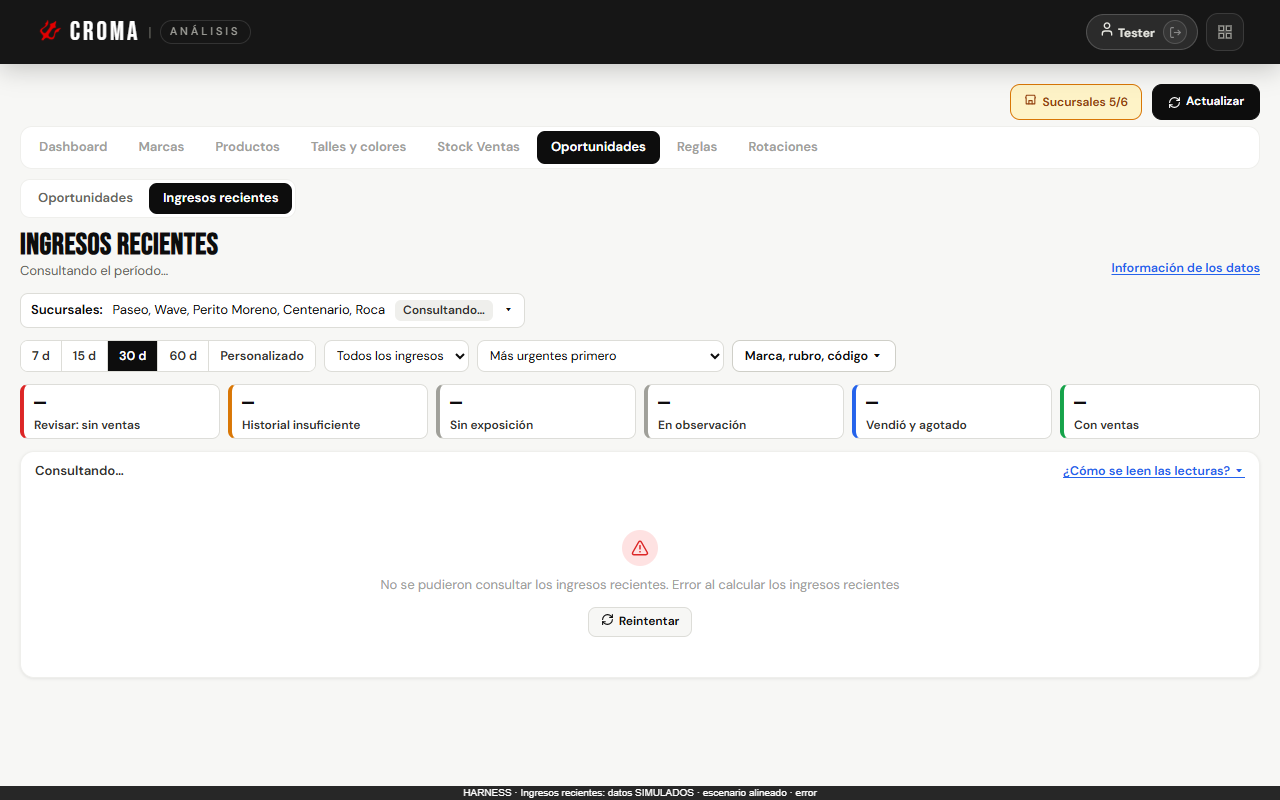
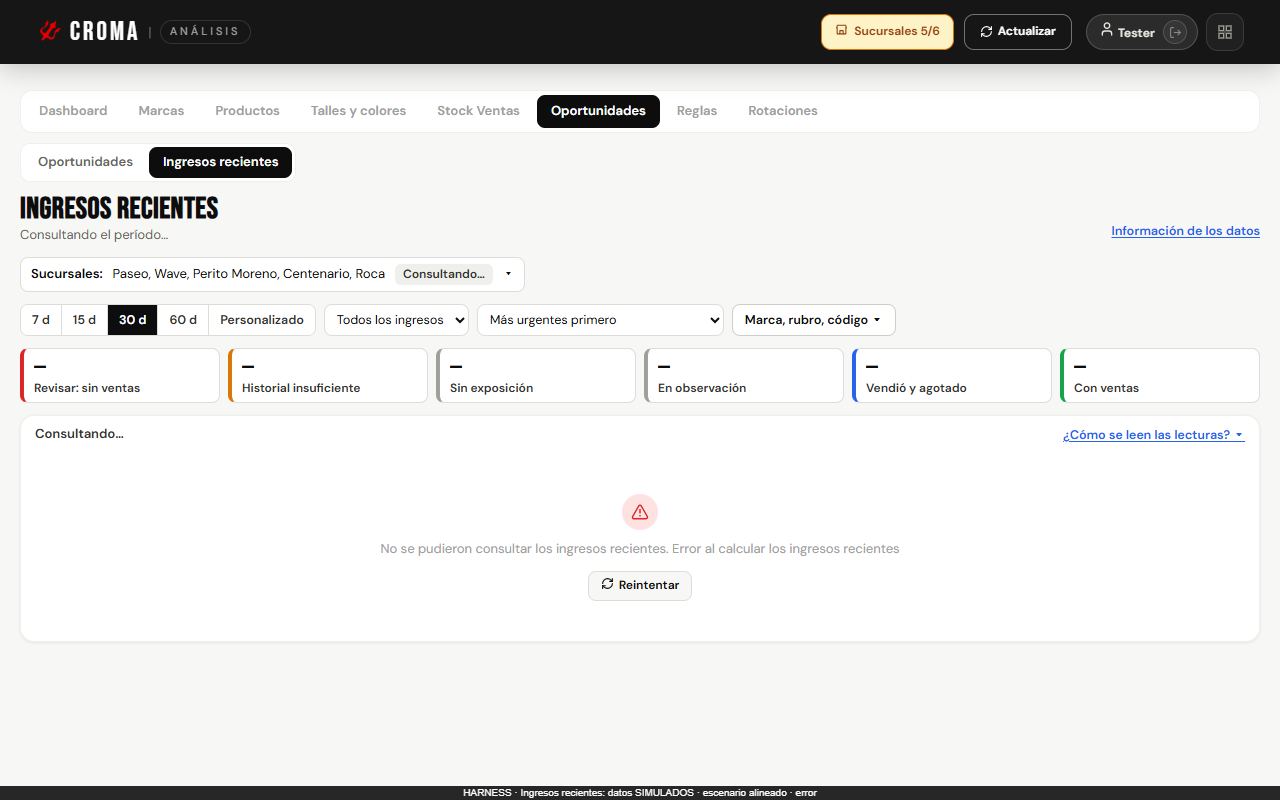
feat(analisis): acciones en la barra superior y dias del rango personalizado
En escritorio, "Sucursales", "Actualizar" y la hora de actualizacion pasan a
la barra superior mientras esta activa Ingresos recientes (en movil quedan
donde estaban). En el rango personalizado se muestra al lado de las fechas
la cantidad de dias consultados, con aviso si supera el maximo.

diff --git a/tests/harness/validacion-ingresos-recientes.js b/tests/harness/validacion-ingresos-recientes.js
@@ -53,6 +53,16 @@ const check = (nombre, ok, detalle) => { resultados.push({ nombre, ok: !!ok, det
     check(T('barra superior compacta: sin tarjeta vacía y altura mínima'), cabeceras.barra.h <= (movil ? 48 : 44) && /rgba\(0, 0, 0, 0\)|transparent/.test(cabeceras.fondo) && cabeceras.borde === '0px', JSON.stringify(cabeceras.barra));
     check(T('altura acumulada hasta las subpestañas'), cabeceras.subnav.bottom <= (movil ? 290 : 235), 'subpestañas terminan en ' + cabeceras.subnav.bottom + ' px');
     if (movil) check(T('controles de la barra cómodos de tocar (≥ 40 px)'), cabeceras.boton.h >= 40, 'alto ' + cabeceras.boton.h);
+    // acciones en la barra superior (escritorio) o en su lugar de siempre (movil)
+    const acc = await page.evaluate(() => { const top = document.querySelector('header.topbar'); const g = id => document.getElementById(id); const r = e => { const b = e.getBoundingClientRect(); return { l: Math.round(b.left), r: Math.round(b.right), t: Math.round(b.top), b: Math.round(b.bottom) }; }; return { suc: !!top.querySelector('#rtBtnSucursales'), act: !!top.querySelector('#rtBtnActualizar'), hdr: Math.round(top.getBoundingClientRect().height), sucR: r(g('rtBtnSucursales')), actR: r(g('rtBtnActualizar')), barra: getComputedStyle(g('rtBar')).display, sub: Math.round(document.querySelector('.ov-subnav').getBoundingClientRect().top) }; });
+    if (!movil) {
+      check(T('escritorio: «Sucursales» y «Actualizar» están en la barra superior y la fila de acciones desaparece'), acc.suc && acc.act && acc.barra === 'none' && acc.sucR.b <= acc.hdr && acc.actR.b <= acc.hdr, JSON.stringify(acc));
+      await page.locator('#rtBtnSucursales').click(); await page.waitForTimeout(300);
+      const pn = await page.evaluate(() => { const b = document.getElementById('rtSucursalesPanel').getBoundingClientRect(); return { l: Math.round(b.left), r: Math.round(b.right), t: Math.round(b.top), vw: innerWidth, visible: document.elementFromPoint(b.left + 20, b.top + 20)?.closest('#rtSucursalesPanel') !== null }; });
+      check(T('panel de sucursales desde la barra superior: dentro de la pantalla y por encima del contenido'), pn.l >= 0 && pn.r <= pn.vw && pn.visible, JSON.stringify(pn));
+      await foto(page, 'alineado-07-acciones-en-barra-superior');
+      await page.keyboard.press('Escape'); await page.locator('#rtBtnSucursales').click(); await page.waitForTimeout(200);
+    } else check(T('móvil: las acciones siguen bajo la barra superior (no caben en ella)'), !acc.suc && !acc.act && acc.barra !== 'none', JSON.stringify(acc));
     // teclado: el panel queda justo despues de la linea de alcance; Escape lo cierra y devuelve el foco
     await page.locator('.ir-alcance-btn').focus(); await page.keyboard.press('Enter');
     await page.waitForSelector('#irPanelSuc');
@@ -155,9 +165,12 @@ const check = (nombre, ok, detalle) => { resultados.push({ nombre, ok: !!ok, det
     await page.getByRole('button', { name: 'Personalizado' }).click();
     await page.waitForSelector('#irDesde');
     await page.fill('#irDesde', '2026-03-01'); await page.fill('#irHasta', '2026-11-10');
+    check(T('rango personalizado: al lado de las fechas dice cuántos días se consultan (y avisa si pasa el máximo)'), /255 días · máximo 180/.test(await texto(page, '#irDiasRango')) && await page.locator('#irDiasRango.ir-dias-excede').count() === 1, await texto(page, '#irDiasRango'));
     await page.locator('.ir-rango button[type="submit"]').click();
     check(T('rango > 180 días muestra error y no consulta'), /180 días/.test(await page.locator('.ir-error').innerText().catch(() => '')), '');
     await page.fill('#irDesde', '2026-10-20'); await page.fill('#irHasta', '2026-11-10');
+    check(T('rango personalizado: 20/10 al 10/11 = 22 días, visible junto a Hasta'), (await texto(page, '#irDiasRango')).trim() === '22 días' && await page.evaluate(() => { const h = document.getElementById('irHasta').getBoundingClientRect(), d = document.getElementById('irDiasRango').getBoundingClientRect(); return d.left >= h.left && Math.abs(d.top - h.top) < 40; }), await texto(page, '#irDiasRango'));
+    await foto(page, 'alineado-08-rango-personalizado-dias');
     await page.locator('.ir-rango button[type="submit"]').click(); await page.waitForTimeout(700);
     check(T('rango válido consulta con desde/hasta'), pedidos.some(p => p.get('desde') === '2026-10-20' && p.get('hasta') === '2026-11-10'), '');
     // paginación (60 d tiene > 50 códigos)

diff --git a/ingresos-recientes-vista.js b/ingresos-recientes-vista.js
@@ -44,6 +44,17 @@ function irValorContador(resp, clave) {
   const v = resp.resumen && resp.resumen.por_lectura ? resp.resumen.por_lectura[clave] : undefined;
   return typeof v === 'number' ? v : null;
 }
+// Cantidad de dias del rango (ambos extremos incluidos) o null si las fechas no alcanzan para contarlos.
+function irDiasRango(desde, hasta) {
+  if (!desde || !hasta || desde > hasta) return null;
+  const d = Math.round((Date.parse(hasta + 'T00:00:00Z') - Date.parse(desde + 'T00:00:00Z')) / 86400000) + 1;
+  return isNaN(d) ? null : d;
+}
+function irTextoDiasRango(desde, hasta) {
+  const d = irDiasRango(desde, hasta);
+  if (d === null) return { texto: '', excede: false };
+  return { texto: d + (d === 1 ? ' día' : ' días') + (d > IR_MAX_DIAS ? ' · máximo ' + IR_MAX_DIAS : ''), excede: d > IR_MAX_DIAS };
+}
 function irValidarRango(desde, hasta, corte) {
   if (!desde || !hasta) return 'Elegí las dos fechas.';
   if (desde > hasta) return '"Desde" no puede ser posterior a "Hasta".';
@@ -116,6 +127,28 @@ async function irCargar() {
   if (reintentar) irCargar();
 }
 function irReiniciar() { IR.offset = 0; IR.expandido = null; IR.confirmar = null; }
+// Con Ingresos recientes activa, en escritorio «Sucursales», «Actualizar» y la hora de actualizacion pasan a la barra superior (ahorra una fila).
+// En movil no hay lugar en la barra superior: quedan donde estaban. Son los mismos nodos (mismos ids y eventos), solo cambian de lugar.
+function irUbicarAcciones() {
+  const bar = document.getElementById('rtBar'), top = document.querySelector('header.topbar .top-actions');
+  if (!bar || !top) return;
+  const activa = bar.classList.contains('ir-activa') || bar.classList.contains('ir-en-top');
+  const enTop = bar.classList.contains('ir-activa') && !(typeof ovEsMovil === 'function' && ovEsMovil());
+  const cont = document.querySelector('header.topbar .ir-top-acc');
+  const estado = document.querySelector('.rt-status'), fin = document.querySelector('.fbar-end');
+  if (!estado || !fin) return;
+  if (enTop && !cont) {
+    const c = document.createElement('div'); c.className = 'ir-top-acc';
+    c.appendChild(estado); c.appendChild(fin);
+    top.insertBefore(c, top.firstChild);
+  } else if (!enTop && cont) {
+    bar.appendChild(estado); bar.appendChild(fin); cont.remove();
+  }
+  bar.classList.toggle('ir-en-top', enTop);
+  if (!activa) bar.classList.remove('ir-en-top');
+}
+if (typeof window !== 'undefined' && window.addEventListener) window.addEventListener('resize', () => irUbicarAcciones());
+
 function irAplicar(fn, foco) { fn(); if (foco) IR.foco = foco; irReiniciar(); irCargar(); }
 // Redibuja conservando el scroll; despues enfoca 'foco' y deja visible 'mostrar' (selector) por debajo del encabezado fijo de la app.
 function irRedibujar(foco, mostrar) { if (foco) IR.foco = foco; IR.mostrar = mostrar || null; IR.scrollY = window.scrollY; rtRenderVistaActual(); }
@@ -309,6 +342,11 @@ function irControlesFiltro(host, resp) {
     const campo = (rot, id, valor, max) => { const l = rtEl('label', { text: rot + ' ' }); const i = rtEl('input', { className: 'form-control ir-fecha', attrs: { type: 'date', id } }); i.value = valor || ''; if (max) i.setAttribute('max', max); l.appendChild(i); r.appendChild(l); return i; };
     const corte = resp && resp.periodo ? resp.periodo.corte : '';
     const d = campo('Desde', 'irDesde', IR.desde, corte), h = campo('Hasta', 'irHasta', IR.hasta, corte);
+    // al lado de las fechas: cuantos dias se estan consultando (se actualiza al escribir o elegir)
+    const dias = rtEl('span', { className: 'ir-dias-rango', attrs: { id: 'irDiasRango', role: 'status', 'aria-live': 'polite' } });
+    const pintarDias = () => { const t = irTextoDiasRango(d.value, h.value); dias.textContent = t.texto; dias.classList.toggle('ir-dias-excede', t.excede); const e = document.querySelector('.ir-error'); if (e && e.parentNode) { e.parentNode.removeChild(e); IR.errorRango = null; } };
+    [d, h].forEach(x => { x.addEventListener('input', pintarDias); x.addEventListener('change', pintarDias); });
+    pintarDias(); r.appendChild(dias);
     const ap = rtEl('button', { className: 'ir-btn ir-btn-rojo', text: 'Aplicar' }); ap.type = 'submit'; r.appendChild(ap);
     r.addEventListener('submit', e => {
       if (e && e.preventDefault) e.preventDefault();

diff --git a/tests/harness/validacion-integracion-real.js b/tests/harness/validacion-integracion-real.js
@@ -254,7 +254,7 @@ const esperar = (ms) => new Promise(r => setTimeout(r, ms));
     await page.click('#rtTabs .tab[data-view="dashboard"]').catch(() => {}); await page.waitForTimeout(600);
     await irAIngresos();
     // selección global: quitar Perito Moreno desde el botón de la barra
-    await page.locator('#rtBar button', { hasText: /Sucursales/ }).click(); await page.waitForTimeout(400);
+    await page.locator('#rtBtnSucursales').click(); await page.waitForTimeout(400);
     { const bb = await page.locator('#rtSucursalesPanel').boundingBox(); check(T('selección global: el panel de sucursales queda dentro de la pantalla'), bb && bb.x >= 0 && bb.x + bb.width <= vp.width, JSON.stringify(bb)); await foto('real-09a-panel-sucursales-global'); }
     await page.locator('.rt-suc-opcion', { hasText: 'Perito Moreno' }).click();
     await page.locator('.rt-suc-aplicar').click(); await page.waitForTimeout(1500);
@@ -266,7 +266,7 @@ const esperar = (ms) => new Promise(r => setTimeout(r, ms));
     check(T('selección global: el alcance de la vista lo informa'), /Perito Moreno/.test(alcG) && /barra superior|Sucursales/.test(alcG) || (movil && /4 sucursales/.test(alcG)), alcG.replace(/\n/g, ' '));
     await foto('real-09-seleccion-global');
     // restaurar la selección global
-    await page.locator('#rtBar button', { hasText: /Sucursales/ }).click(); await page.waitForTimeout(300);
+    await page.locator('#rtBtnSucursales').click(); await page.waitForTimeout(300);
     await page.locator('.rt-suc-opcion', { hasText: 'Perito Moreno' }).click(); await page.locator('.rt-suc-aplicar').click(); await page.waitForTimeout(1500);
     if (!(await page.locator(filas).count())) await esperarFilas();
     check(T('selección global restaurada: vuelve a las 5 sucursales operativas'), new URL(ultimoPedido()).searchParams.get('sucursales') === '0001,0005,0010,0012,0014', new URL(ultimoPedido()).searchParams.get('sucursales'));

diff --git a/ingresos-recientes-vista.css b/ingresos-recientes-vista.css
@@ -12,6 +12,14 @@
 #rtBar.ir-activa{background:transparent;border:none;box-shadow:none;padding:0;margin:0;min-height:0;justify-content:flex-end}
 #rtBar.ir-activa .fbar-end{margin-left:auto;width:auto;padding:0}
 #rtBar.ir-activa .btn-sm{min-height:36px}
+/* escritorio: las acciones viven en la barra superior (oscura): hora de actualizacion tenue y «Actualizar» con contorno claro */
+#rtBar.ir-en-top{display:none}
+.ir-top-acc{display:flex;align-items:center;gap:10px;margin-right:6px}
+.ir-top-acc .fbar-end{margin:0;padding:0;width:auto;flex-wrap:nowrap}
+.ir-top-acc .rt-status .fname{color:#9ca3af;font-size:11.5px;white-space:nowrap}
+.ir-top-acc .btn-sm{min-height:34px;white-space:nowrap}
+.ir-top-acc .rt-btn-actualizar{background:transparent;border-color:rgba(255,255,255,.4);color:#fff}
+.ir-top-acc .rt-btn-actualizar:hover{background:rgba(255,255,255,.14);border-color:#fff}
 #rtBar.ir-activa + .tabs{margin:6px 0 10px}
 /* El encabezado fijo (64 px) no debe tapar el control enfocado ni el titulo de lo que se abre: margen de scroll para foco por teclado y anclas */
 html:has(#rtBar.ir-activa){scroll-padding-top:76px}
@@ -78,6 +86,9 @@ html:has(#rtBar.ir-activa){scroll-padding-top:76px}
 .ir-rapido:hover{background:var(--gray-50)}
 .ir-rapido.ir-activo{background:var(--black);color:var(--white)}
 .ir-select{font:inherit;font-size:12.5px;border:1px solid var(--gray-200);border-radius:8px;padding:6px 8px;background:var(--white);color:var(--black)}
+.ir-dias-rango{font-size:13px;font-weight:700;color:var(--black);white-space:nowrap}
+.ir-dias-rango:empty{display:none}
+.ir-dias-excede{color:var(--risk)}
 .ir-rango{display:flex;flex-wrap:wrap;align-items:flex-end;gap:8px;font-size:12.5px;font-weight:600;color:var(--gray-600)}
 .ir-fecha{padding:5px 8px;font-size:13px}
 .ir-error{margin:0}

diff --git a/index.html b/index.html
@@ -13,7 +13,7 @@
   <link rel="stylesheet" href="croma-ds.css?v=20260714-1">
   <link rel="stylesheet" href="oportunidades-reglas.css?v=20261031-1">
   <link rel="stylesheet" href="oportunidades-vista.css?v=20261103-1">
-  <link rel="stylesheet" href="ingresos-recientes-vista.css?v=20261111-2">
+  <link rel="stylesheet" href="ingresos-recientes-vista.css?v=20261111-3">
   <style>
     /* --black, --white, --gray-100..800 y --accent ya vienen de croma-ds.css (valores
        idénticos, una sola fuente de verdad). Acá solo lo que croma-ds.css no define:
@@ -2605,6 +2605,7 @@ function rtRenderVistaActual() {
   // En Oportunidades > Ingresos recientes el periodo global (Desde/Hasta) no aplica: la barra oculta esos campos para dejar lugar a la lista.
   const barra = document.getElementById('rtBar');
   if (barra) barra.classList.toggle('ir-activa', RT_VIEW === 'oportunidades' && typeof ovSubvistaActual === 'function' && ovSubvistaActual() === 'ingresos');
+  if (typeof irUbicarAcciones === 'function') irUbicarAcciones();
   host.replaceChildren();
   if (RT_VIEW === 'dashboard') renderRTDashboard(host);
   else if (RT_VIEW === 'marcas') renderRTMarcas(host);
@@ -4988,7 +4989,7 @@ function rtOportunidadesPanelDetalle(f) {
 <script src="oportunidades-grupos.js?v=20261103-1"></script>
 <script src="oportunidades-reglas.js?v=20261031-1"></script>
 <script src="oportunidades-vista.js?v=20261103-1"></script>
-<script src="ingresos-recientes-vista.js?v=20261111-2"></script>
+<script src="ingresos-recientes-vista.js?v=20261111-3"></script>
 <script>
   window.addEventListener('load', function() {
     var splash = document.getElementById('splashScreen');

diff --git a/tests/ingresos-recientes-vista.test.js b/tests/ingresos-recientes-vista.test.js
@@ -47,6 +47,17 @@ test('parametros de consulta: rango inicial dias=30, sucursales siempre explicit
   assert.ok(!/dias=/.test(q("{ personalizado: true, dias: 30, desde: '2026-10-01', hasta: '2026-10-31', tipo: '', lectura: '', orden: 'prioridad', offset: 0 }", ['0001'], null)), 'con rango no se manda dias');
 });
 
+test('rango personalizado: cantidad de días consultados (ambos extremos incluidos) y aviso si supera el máximo', () => {
+  const env = crearEntorno();
+  const t = (d, h) => plano(env.ev(`irTextoDiasRango(${JSON.stringify(d)}, ${JSON.stringify(h)})`));
+  assert.equal(t('2026-11-01', '2026-11-01').texto, '1 día');
+  assert.equal(t('2026-10-12', '2026-11-10').texto, '30 días');
+  assert.equal(t('2026-10-01', '2026-11-10').texto, '41 días');
+  assert.equal(t('2026-05-01', '2026-10-27').texto, '180 días'); assert.equal(t('2026-05-01', '2026-10-27').excede, false);
+  assert.match(t('2026-05-01', '2026-10-28').texto, /181 días · máximo 180/); assert.equal(t('2026-05-01', '2026-10-28').excede, true);
+  assert.equal(t('', '2026-11-10').texto, '', 'sin una fecha no se cuenta'); assert.equal(t('2026-11-10', '2026-11-01').texto, '', 'invertido: no se cuenta');
+});
+
 test('rango personalizado: máximo 180 días, hasta no posterior al corte y orden de fechas', () => {
   const env = crearEntorno();
   const v = (d, h, c) => env.ev(`irValidarRango(${JSON.stringify(d)}, ${JSON.stringify(h)}, ${JSON.stringify(c)})`);
